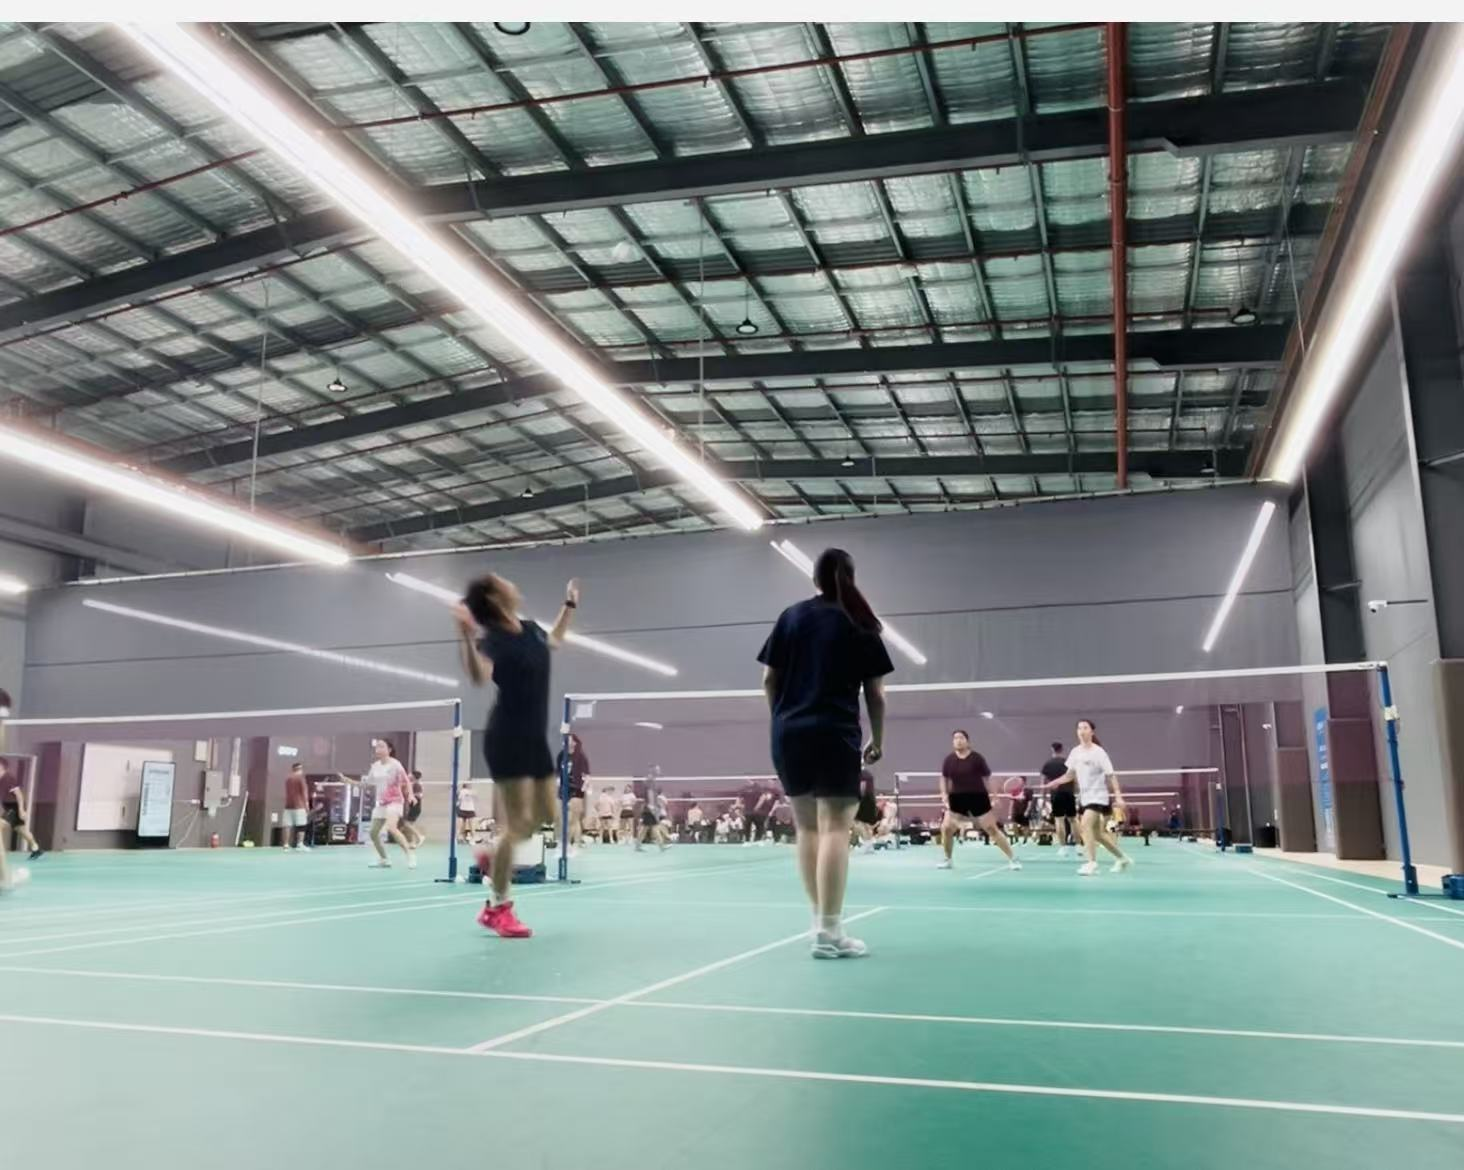
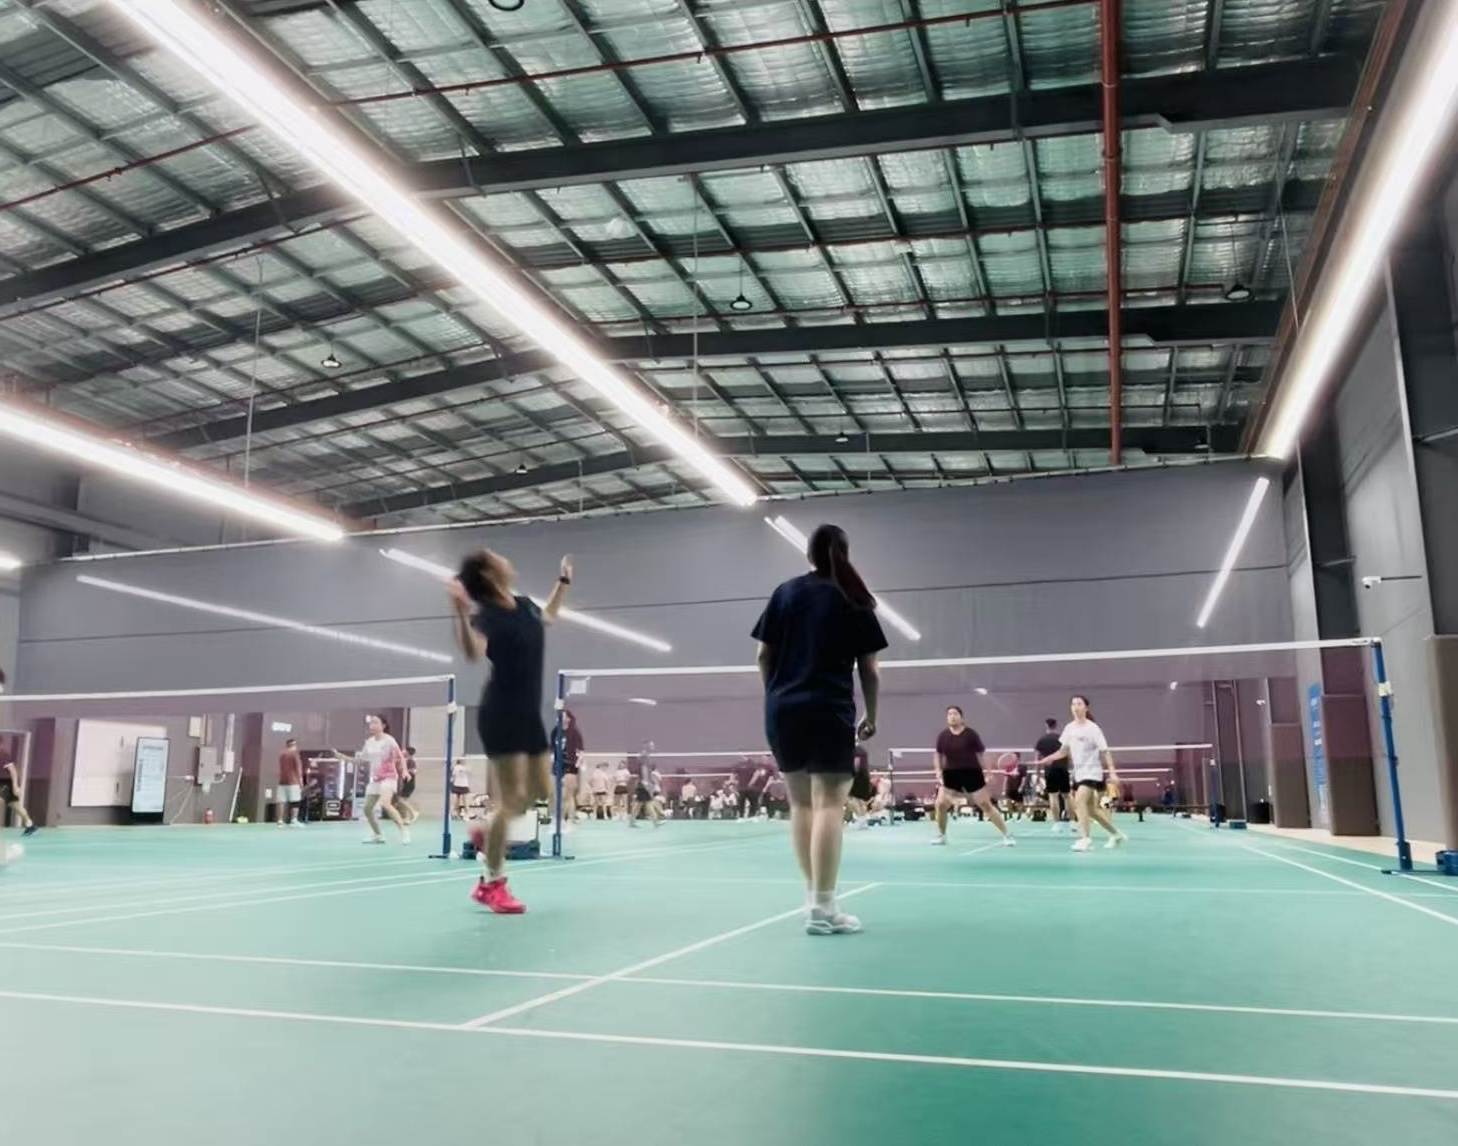
1

diff --git a/css/me.css b/css/me.css
@@ -881,7 +881,7 @@ h1{
   position: relative;
   flex: 0 0 auto;                       /* 图片宽度不被拉伸 */
   width: clamp(250px, 44vw, 350px);     /* 照片更小（不影响右侧文字位置） */
-  aspect-ratio: 4 / 5.5;
+  aspect-ratio: 4 / 5.8;
   cursor: pointer;
 }
 #happy-list .card-stack .shot{
